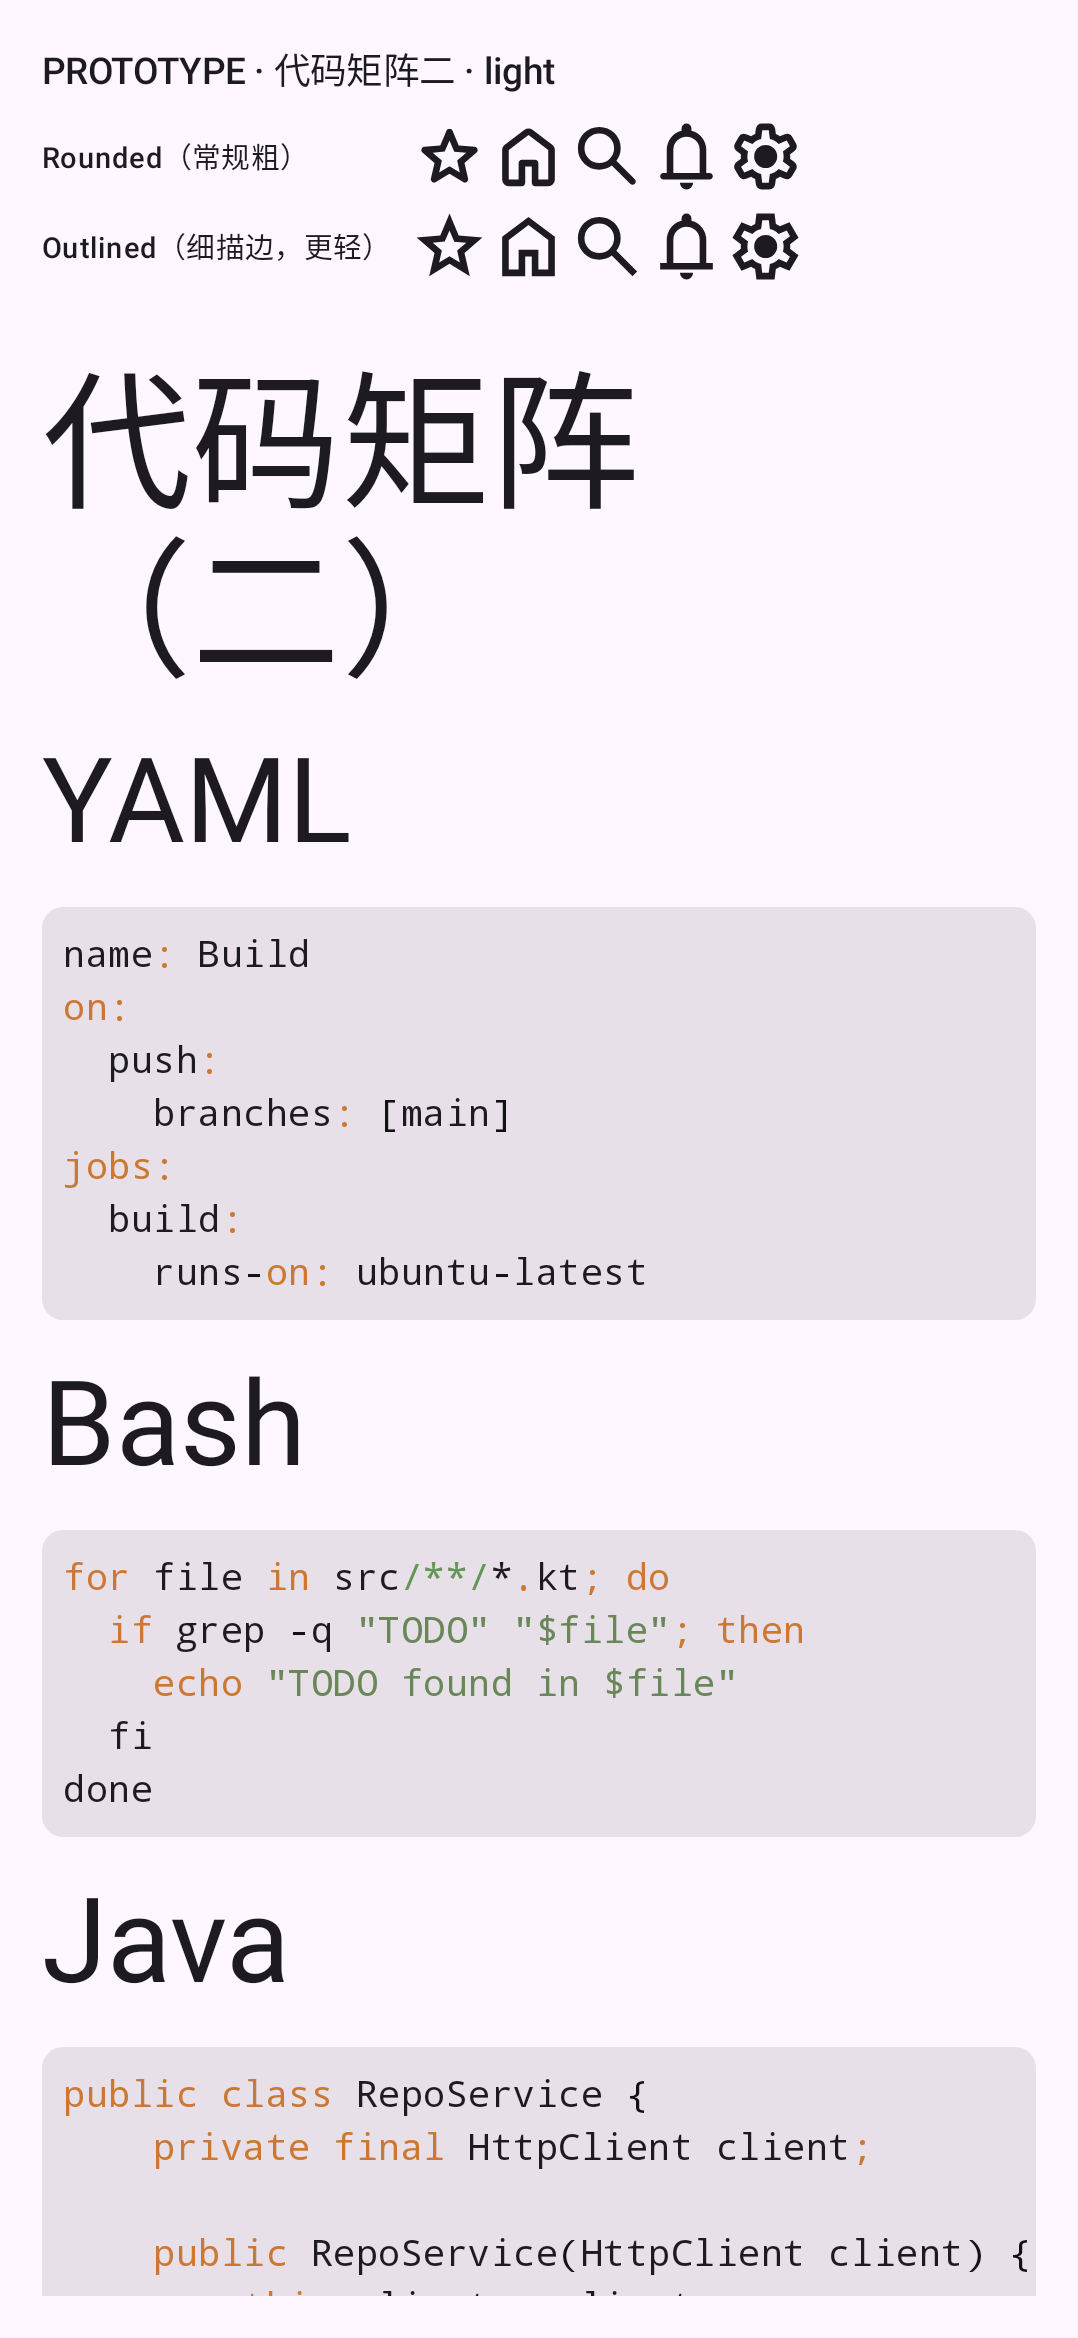
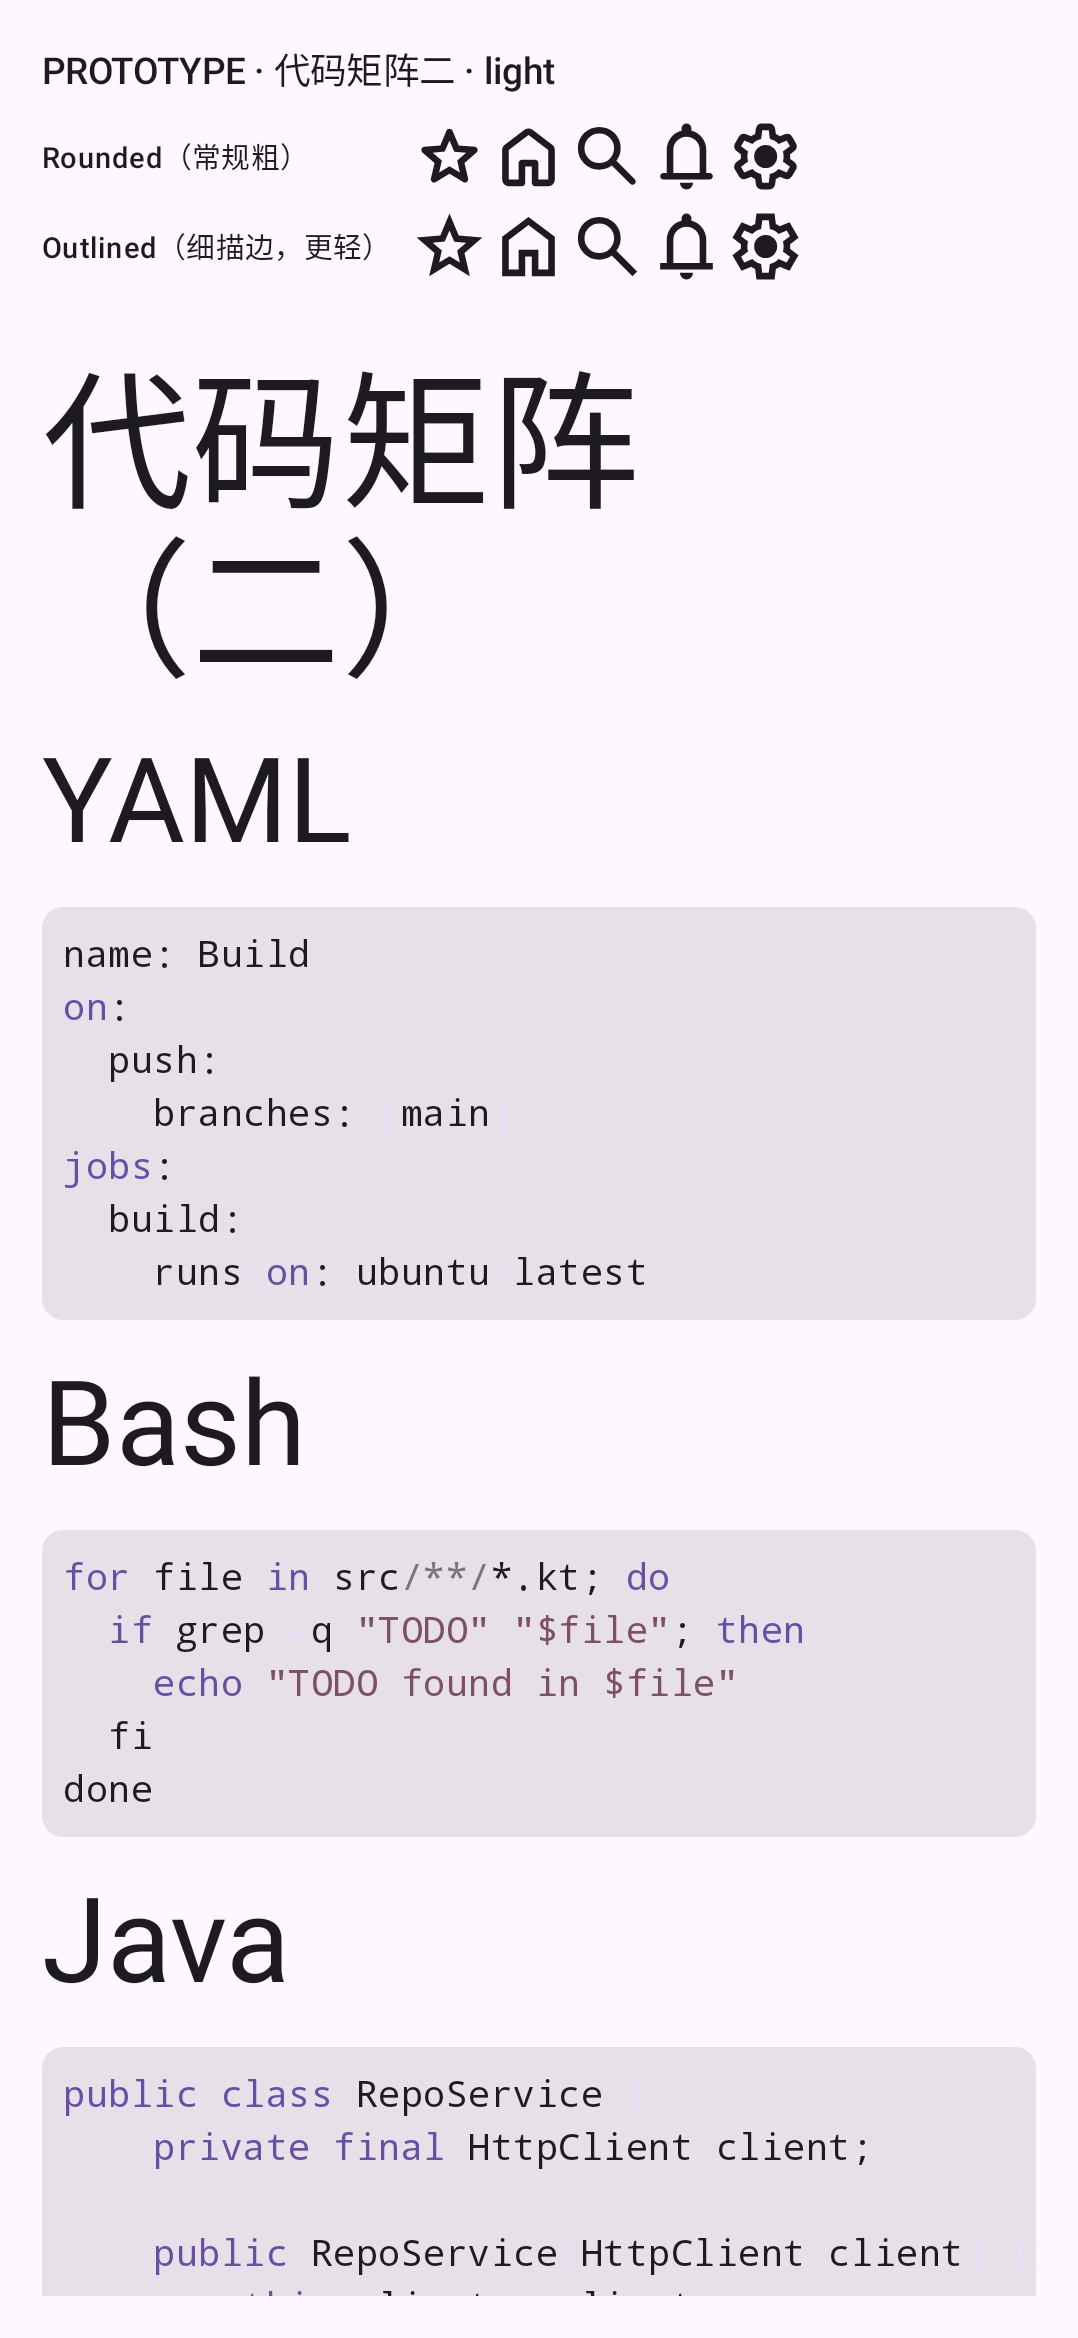
proto(markdown-renderer): M3-derived code highlight theme + full-contrast symbols
- code highlight now derives from MaterialTheme.colorScheme: keyword=primary,
  string/literal=tertiary, comment=outline, punctuation/code=onSurface
  (full contrast, verified via PIL pixel sampling: #1D1B20 light / #E6E0E9 dark)
- syntax theme follows Material You palette automatically (prototype proof;
  production mapping goes into designsystem)
- forced full re-record of all screenshots (--rerun-tasks)

diff --git a/prototype/markdown-renderer/src/main/kotlin/com/yumiru11/githubapp/prototype/md/PrototypeMarkdownScreen.kt b/prototype/markdown-renderer/src/main/kotlin/com/yumiru11/githubapp/prototype/md/PrototypeMarkdownScreen.kt
@@ -31,6 +31,7 @@ import androidx.compose.runtime.remember
 import androidx.compose.ui.Alignment
 import androidx.compose.ui.Modifier
 import androidx.compose.ui.graphics.Color
+import androidx.compose.ui.graphics.toArgb
 import androidx.compose.ui.graphics.vector.ImageVector
 import androidx.compose.ui.text.font.FontWeight
 import androidx.compose.ui.unit.dp
@@ -60,7 +61,28 @@ import com.mikepenz.markdown.m3.markdownColor
 import com.mikepenz.markdown.model.rememberMarkdownState
 import com.mikepenz.markdown.utils.getUnescapedTextInNode
 import dev.snipme.highlights.Highlights
+import dev.snipme.highlights.model.SyntaxTheme
 import dev.snipme.highlights.model.SyntaxThemes
+import androidx.compose.material3.ColorScheme
+
+/** M3 语义色派生代码高亮主题：关键字=primary、字符串=tertiary、注释=outline、标点=onSurface（与正文同对比） */
+private val m3CodeTheme: SyntaxTheme
+    @Composable
+    get() {
+        val c = MaterialTheme.colorScheme
+        return SyntaxTheme(
+            key = "m3",
+            code = c.onSurface.toArgb(),
+            keyword = c.primary.toArgb(),
+            string = c.tertiary.toArgb(),
+            literal = c.tertiary.toArgb(),
+            comment = c.outline.toArgb(),
+            metadata = c.secondary.toArgb(),
+            multilineComment = c.outline.toArgb(),
+            punctuation = c.onSurface.toArgb(),
+            mark = c.secondaryContainer.toArgb(),
+        )
+    }
 
 @Composable
 fun PrototypeMarkdownScreen(variant: MdVariant, darkTheme: Boolean) {
@@ -92,12 +114,13 @@ fun PrototypeMarkdownScreen(variant: MdVariant, darkTheme: Boolean) {
                     ),
                     components = markdownComponents(
                         codeFence = { model ->
+                            val theme = m3CodeTheme
                             MarkdownHighlightedCodeFence(
                                 content = model.content,
                                 node = model.node,
                                 style = model.typography.code,
-                                highlightsBuilder = remember(darkTheme) {
-                                    Highlights.Builder().theme(SyntaxThemes.default(darkMode = darkTheme))
+                                highlightsBuilder = remember(darkTheme, colorScheme) {
+                                    Highlights.Builder().theme(theme)
                                 },
                             )
                         },

diff --git a/prototype/markdown-renderer/src/main/kotlin/com/yumiru11/githubapp/prototype/md/PrototypeSamples.kt b/prototype/markdown-renderer/src/main/kotlin/com/yumiru11/githubapp/prototype/md/PrototypeSamples.kt
@@ -196,6 +196,7 @@ val SAMPLE_D = """
 ## Kotlin（泛型 + 高阶函数）
 
 ```kotlin
+// 泛型 + lambda 高阶函数示例
 inline fun <T : Any> Result<T>.foldOrNull(
     onSuccess: (T) -> Unit,
     onError: (Throwable) -> Unit,
@@ -208,6 +209,7 @@ inline fun <T : Any> Result<T>.foldOrNull(
 ## Python
 
 ```python
+# 装饰器缓存
 def cached(fn: Callable) -> Callable:
     store = {}
     def wrap(*args):
